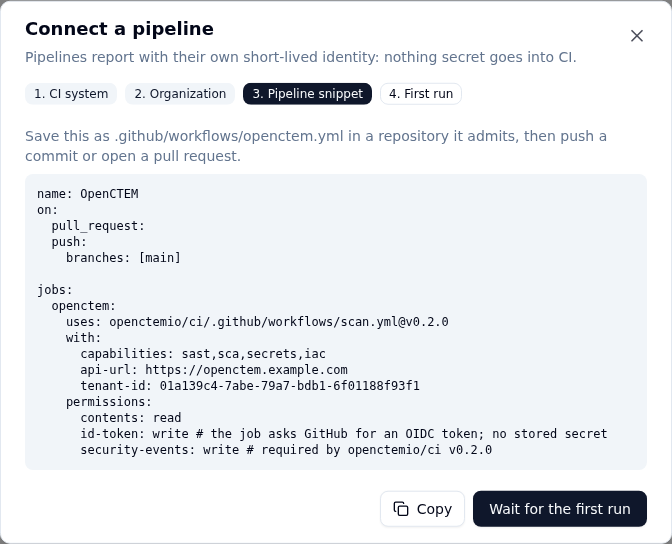
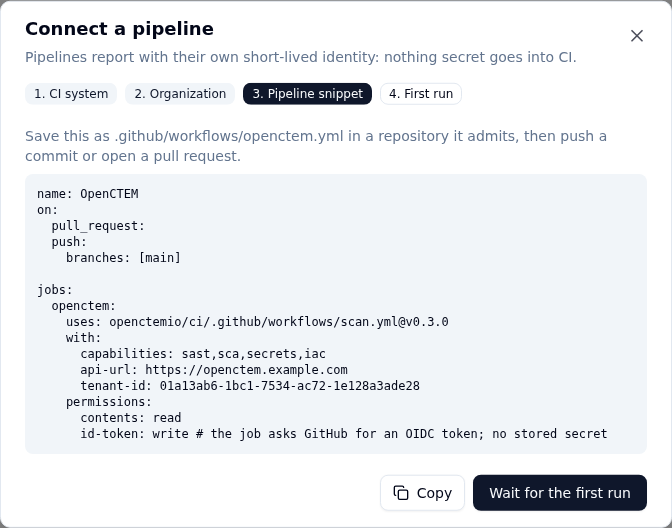
docs(ci): wizard screenshots show the v0.3.0 snippet

diff --git a/scanning/ci-quickstart.md b/scanning/ci-quickstart.md
@@ -58,7 +58,7 @@ organizations, the wizard reuses it and shows its snippet.
 
 The snippet has your platform URL and organization id filled in.
 
-![Step 3: the GitHub Actions workflow to save as .github/workflows/openctem.yml]({{ site.baseurl }}/assets/images/scanning/ci/ci-wizard-3-snippet.png)
+![Step 3: the GitHub Actions workflow pinned to openctemio/ci v0.3.0, to save as .github/workflows/openctem.yml]({{ site.baseurl }}/assets/images/scanning/ci/ci-wizard-3-snippet.png)
 
 ### GitHub Actions
 
